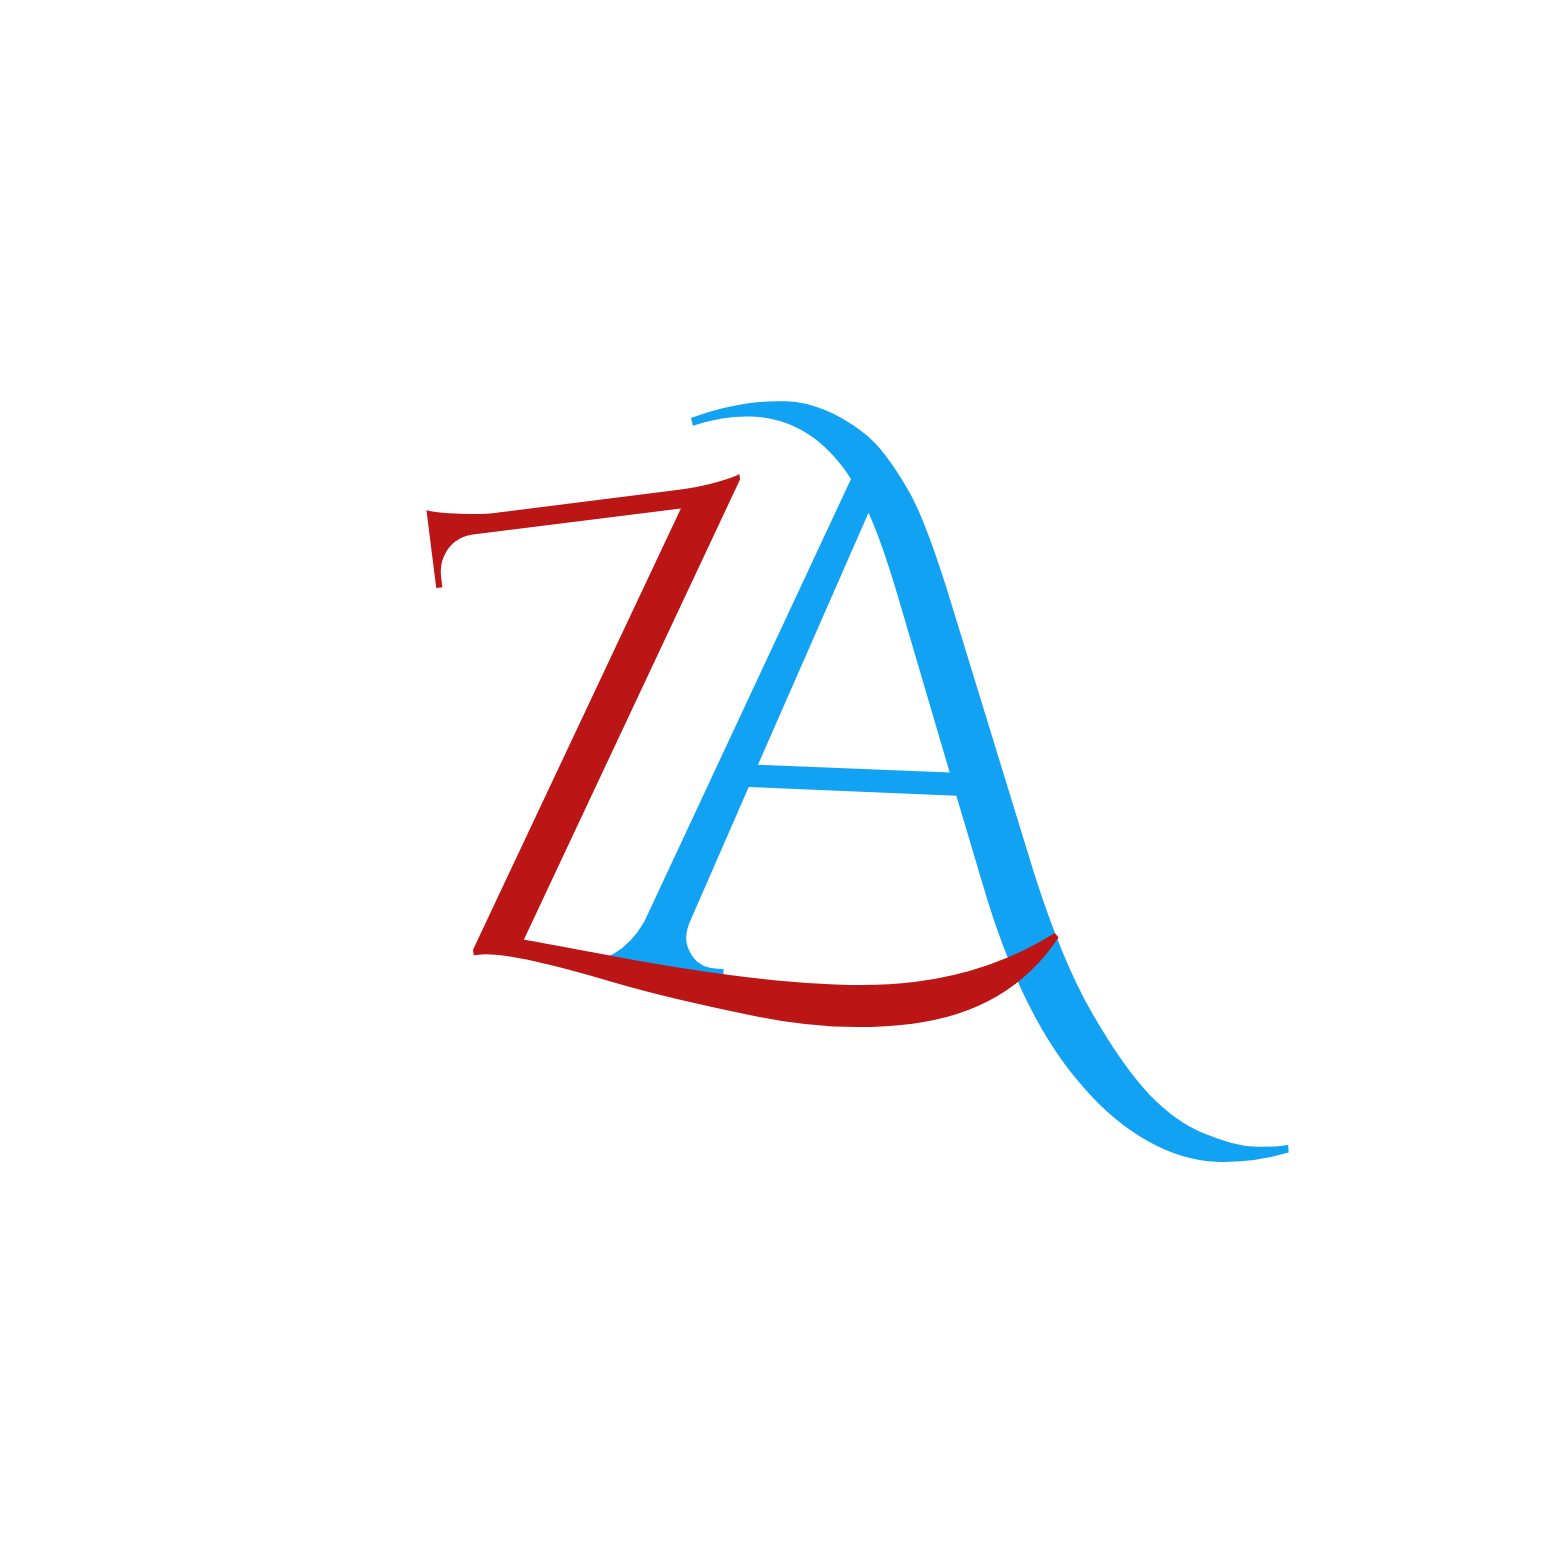
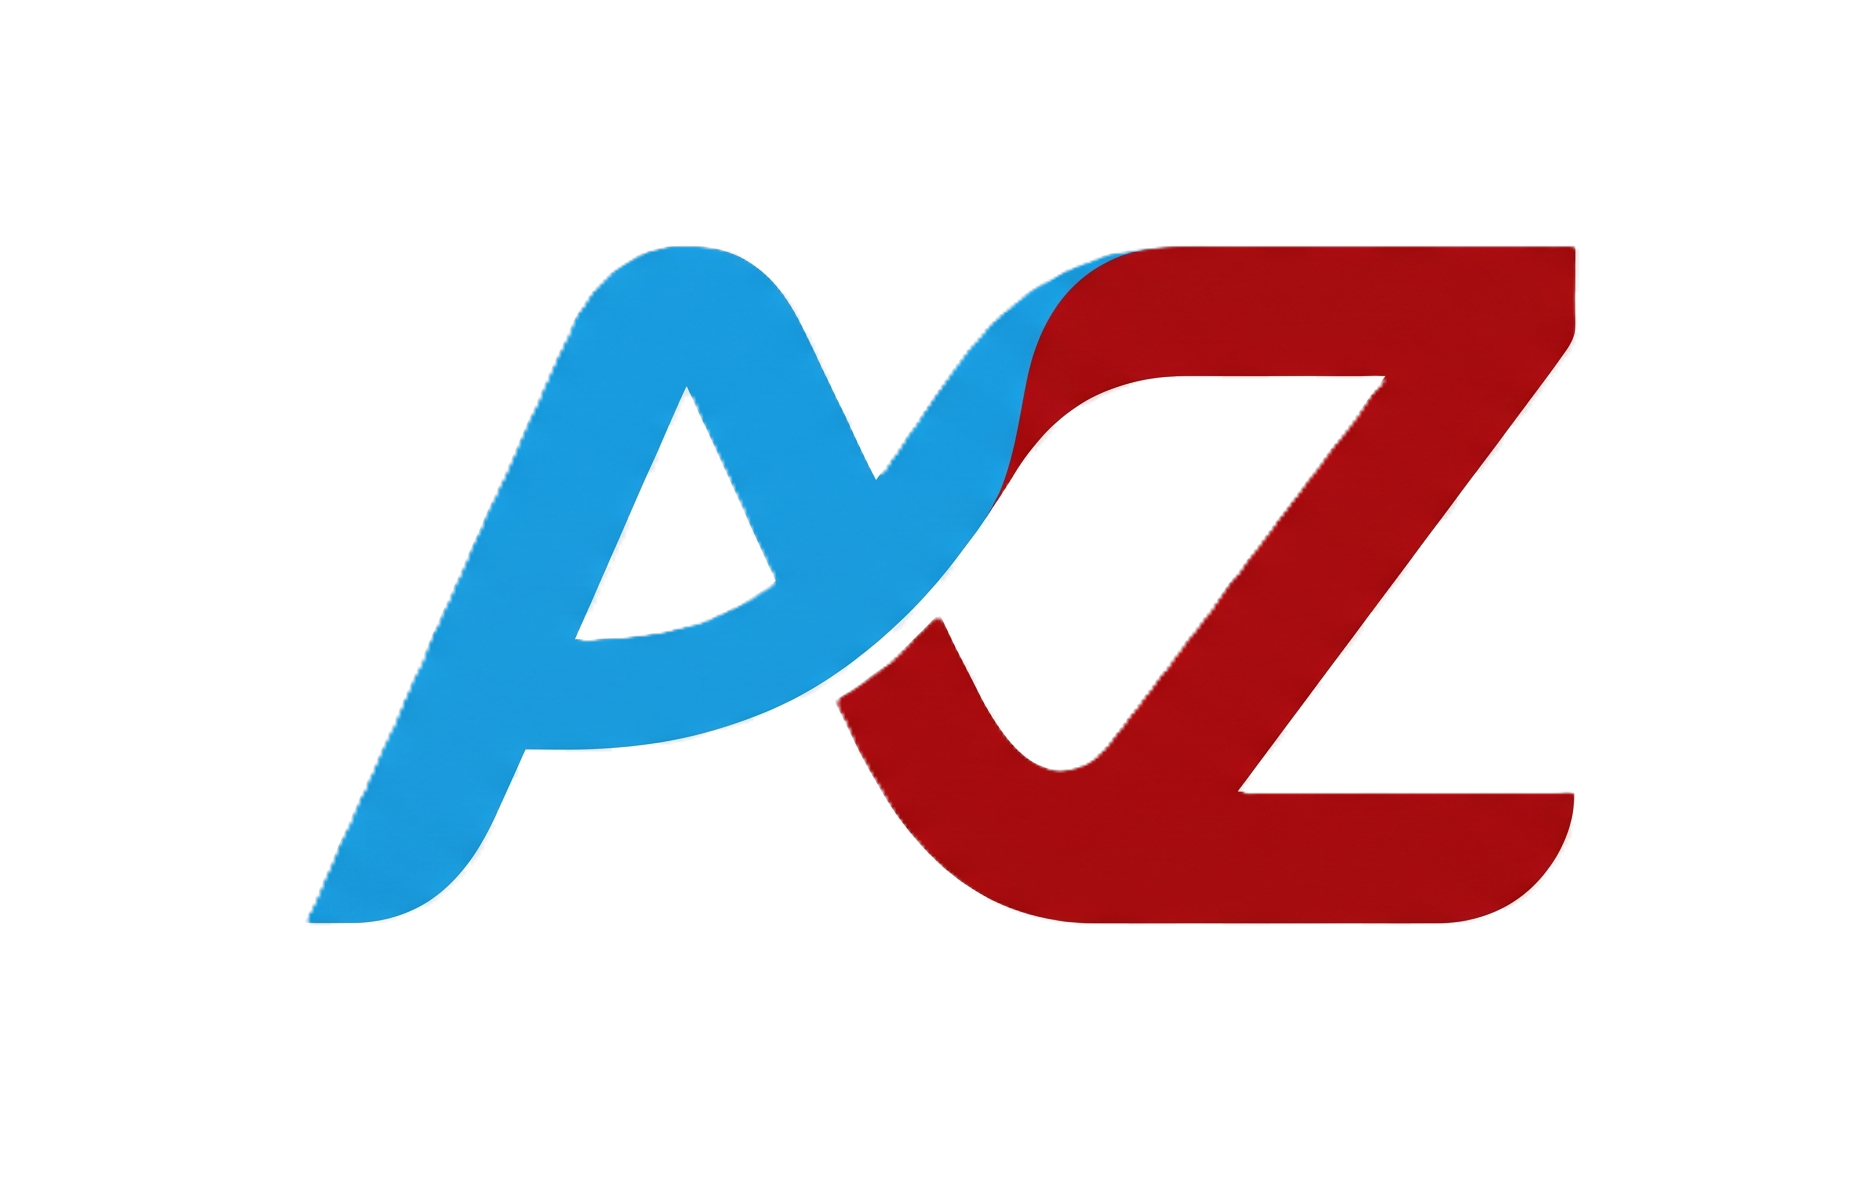
feat: add branded AZ loading component

Changed region(s): [[0.1536, 0.1847, 0.8599, 0.7696]]

diff --git a/src/index.css b/src/index.css
@@ -80,3 +80,50 @@ button {
 }
 
 /* Brand */
+/* ===========================
+   AZ Loader
+=========================== */
+
+.az-loader {
+  display: inline-flex;
+}
+
+.az-letter {
+  position: relative;
+  display: inline-block;
+  overflow: hidden;
+}
+
+.az-a {
+  color: #10a0f0;
+}
+
+.az-z {
+  color: #b81010;
+}
+
+.az-letter::before {
+  content: "";
+  position: absolute;
+  inset: 0;
+  transform: translateX(-140%);
+  background: linear-gradient(
+    115deg,
+    transparent 30%,
+    rgba(255, 255, 255, 0.15) 40%,
+    rgba(255, 255, 255, 0.95) 50%,
+    rgba(255, 255, 255, 0.15) 60%,
+    transparent 70%
+  );
+  animation: az-loading 1.2s linear infinite;
+}
+
+.az-z::before {
+  animation-delay: 0.15s;
+}
+
+@keyframes az-loading {
+  to {
+    transform: translateX(140%);
+  }
+}

diff --git a/src/shared/AZLoader.tsx b/src/shared/AZLoader.tsx
@@ -1,0 +1,23 @@
+interface AZLoaderProps {
+  size?: number;
+  text?: string;
+}
+
+export default function AZLoader({
+  size = 72,
+  text = "Loading...",
+}: AZLoaderProps) {
+  return (
+    <div className="flex min-h-[300px] flex-col items-center justify-center">
+      <h1
+        className="az-loader select-none font-black leading-none tracking-tight"
+        style={{ fontSize: `${size}px` }}
+      >
+        <span className="az-letter az-a">A</span>
+        <span className="az-letter az-z">Z</span>
+      </h1>
+
+      <p className="mt-4 text-sm text-gray-500">{text}</p>
+    </div>
+  );
+}

diff --git a/src/ConnectionError.tsx b/src/ConnectionError.tsx
@@ -39,7 +39,7 @@ export default function ConnectionError() {
         initial={{ opacity: 0 }}
         animate={{ opacity: 1 }}
         exit={{ opacity: 0 }}
-        className="fixed inset-0 z-[9999] flex items-center justify-center bg-white/90 backdrop-blur-sm"
+        className="fixed inset-0 z-9999 flex items-center justify-center bg-white/90 backdrop-blur-sm"
       >
         <motion.div
           initial={{ scale: 0.95, y: 16 }}